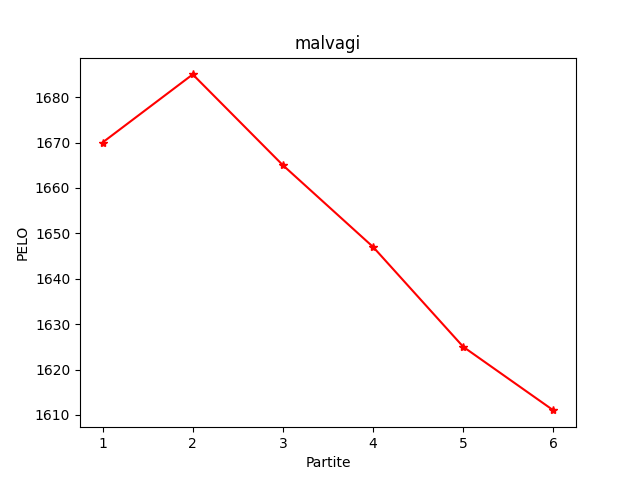
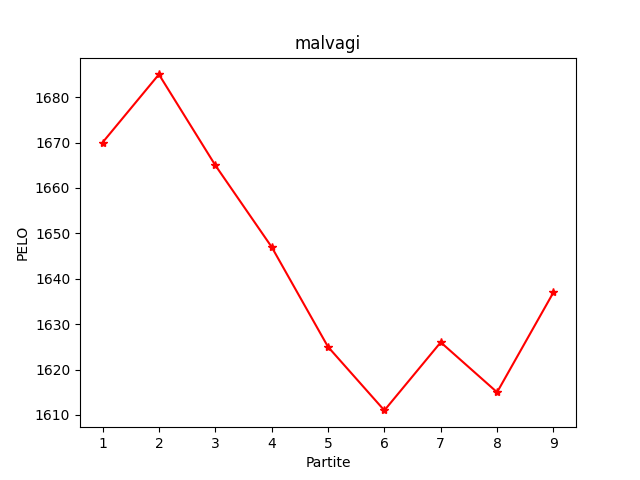
Add files via upload

diff --git a/index.htm b/index.htm
@@ -17,12 +17,12 @@
   <tbody>
     <tr>
       <th>0</th>
-      <td><a href='castellani.png'>castellani</a></td>
-      <td>1693</td>
-      <td>410</td>
-      <td>179</td>
-      <td>3798</td>
-      <td>4075</td>
+      <td><a href='zontini.png'>zontini</a></td>
+      <td>1660</td>
+      <td>221</td>
+      <td>117</td>
+      <td>2189</td>
+      <td>2115</td>
     </tr>
     <tr>
       <th>1</th>
@@ -35,30 +35,30 @@
     </tr>
     <tr>
       <th>2</th>
+      <td><a href='malvagi.png'>malvagi</a></td>
+      <td>1637</td>
+      <td>63</td>
+      <td>37</td>
+      <td>642</td>
+      <td>599</td>
+    </tr>
+    <tr>
+      <th>3</th>
+      <td><a href='castellani.png'>castellani</a></td>
+      <td>1625</td>
+      <td>425</td>
+      <td>186</td>
+      <td>3942</td>
+      <td>4223</td>
+    </tr>
+    <tr>
+      <th>4</th>
       <td><a href='caprile.png'>caprile</a></td>
       <td>1615</td>
       <td>188</td>
       <td>113</td>
       <td>1902</td>
       <td>1676</td>
-    </tr>
-    <tr>
-      <th>3</th>
-      <td><a href='malvagi.png'>malvagi</a></td>
-      <td>1611</td>
-      <td>60</td>
-      <td>35</td>
-      <td>611</td>
-      <td>574</td>
-    </tr>
-    <tr>
-      <th>4</th>
-      <td><a href='zontini.png'>zontini</a></td>
-      <td>1602</td>
-      <td>207</td>
-      <td>110</td>
-      <td>2053</td>
-      <td>1977</td>
     </tr>
     <tr>
       <th>5</th>
